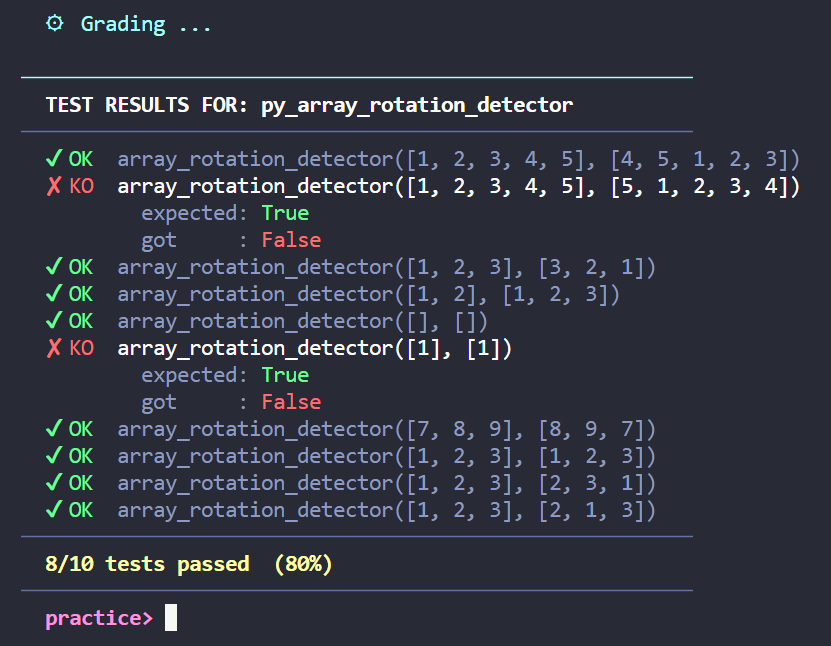
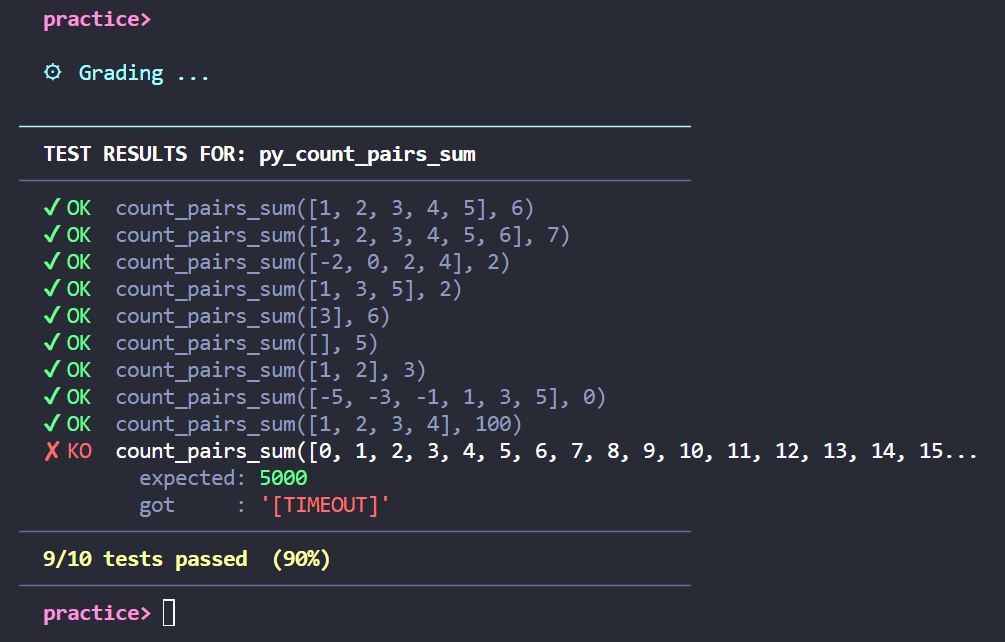
Improving changes to Practice Shell

Changed region(s): [[0.0301, 0.0935, 0.9627, 0.9969], [0.0301, 0.0, 0.2106, 0.0623], [0.7521, 0.405, 0.8123, 0.4361]]

diff --git a/practiceshell.py b/practiceshell.py
@@ -353,7 +353,8 @@ def main_menu():
     banner()
     print()
     print(c(C.WHITE,  "  Welcome to the Rank 04 PracticeShell."))
-    print(c(C.GRAY,   "  Practice the Milestone 4 topics with hidden tests and automatic grading."))
+    print(c(C.GRAY,   "  Practice the Milestone 4 topics with hidden tests"))
+    print(c(C.GRAY,   "  and automatic grading."))
     print()
     print(c(C.YELLOW, "  RULES:"))
     print(c(C.GRAY,   "   • You have 3 hours total."))
